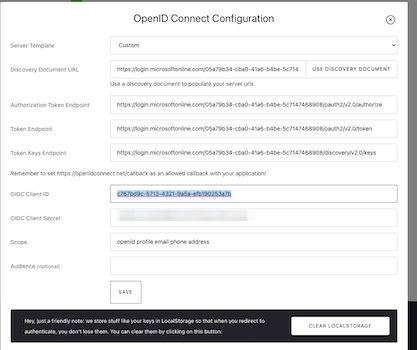
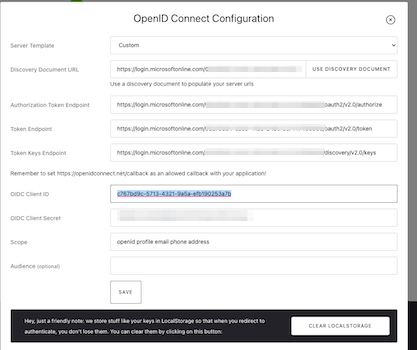
blurred out additional secrets and fixed the url

diff --git a/tyk-docs/content/tyk-stack/tyk-manager/sso/dashboard-login-azure-sso.md b/tyk-docs/content/tyk-stack/tyk-manager/sso/dashboard-login-azure-sso.md
@@ -39,7 +39,7 @@ Check Microsoft's [documentation](https://docs.microsoft.com/en-us/azure/active-
 
   - The well-known endpoint URL is created by Azure and can be located by selecting Endpoints on their site
 
-  ![endpoints](/docs/img/azureAD/endpoints-1.png)
+  ![endpoints](/docs/img/azureAD/endpoints-11.png)
 
 4. Test that it works:
    From the browser call `http://localhost:3000/auth/{PROFILE-NAME-IN-TIB}/openid-connect`
